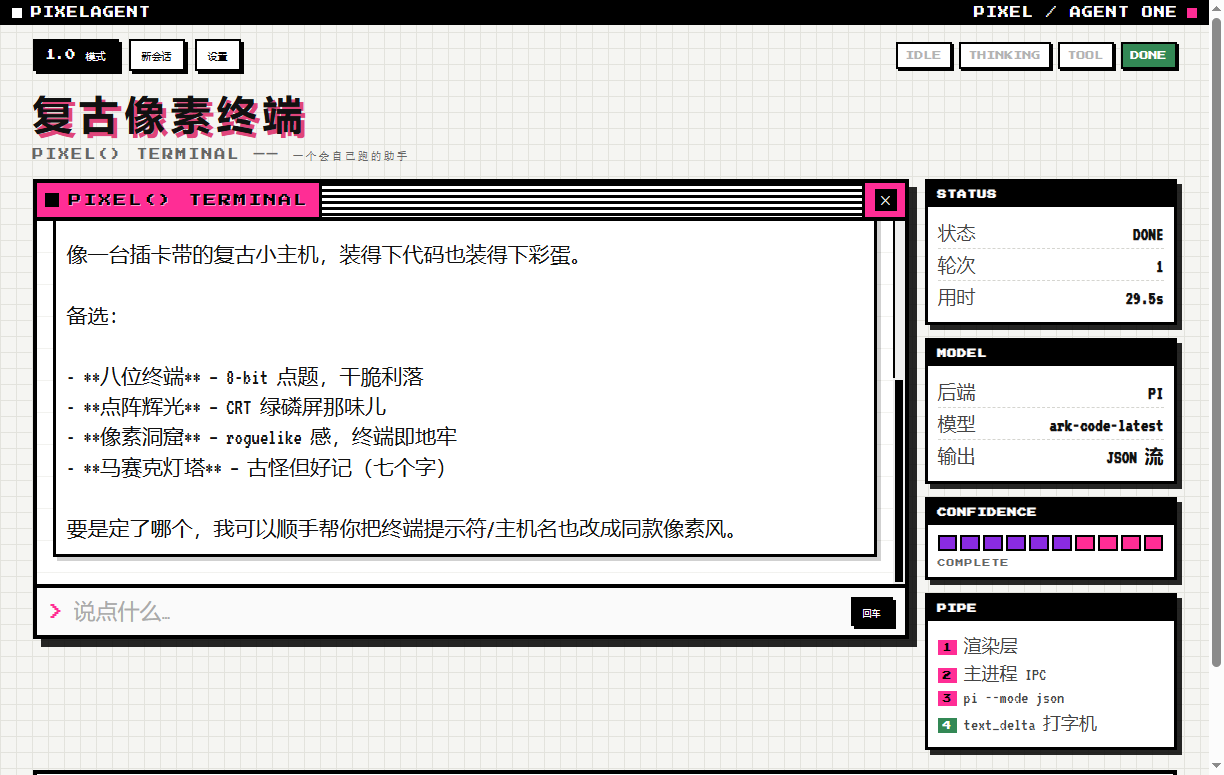
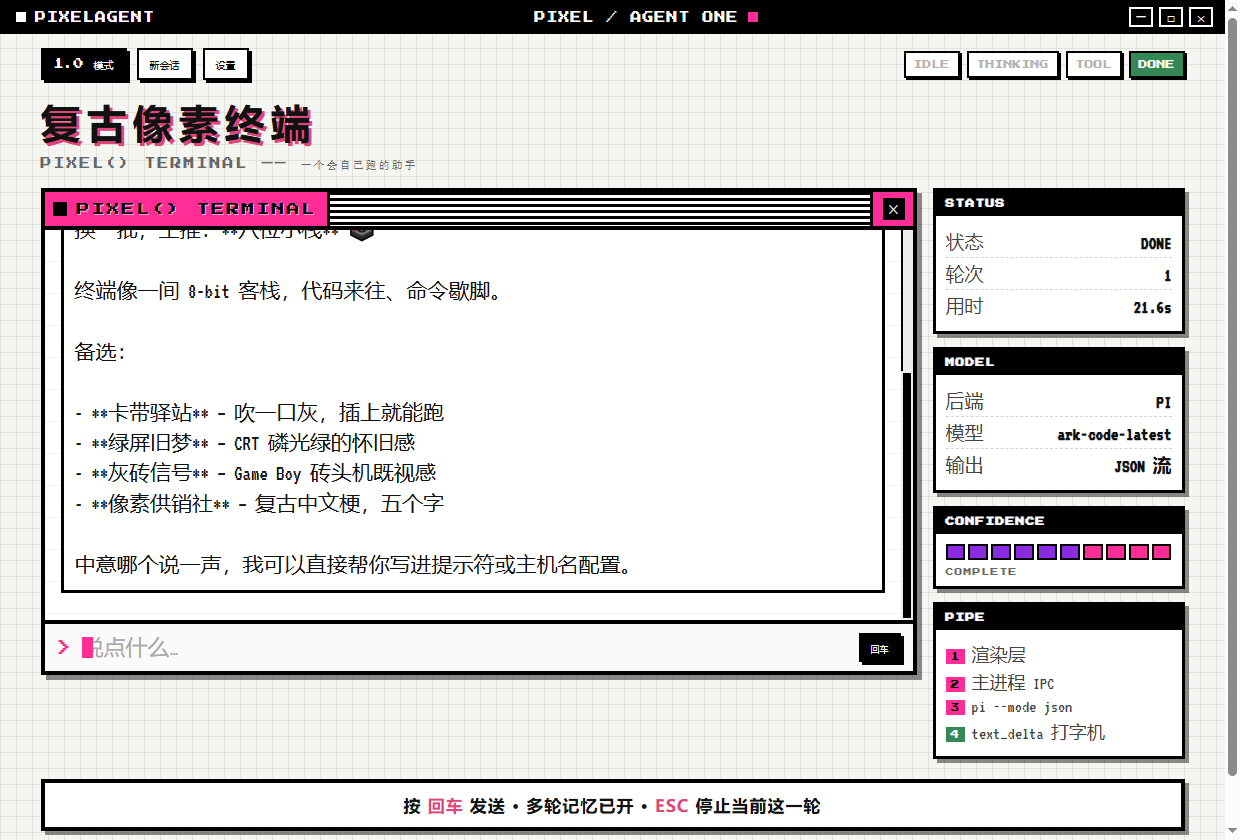
无边框窗口 + 自绘标题栏按钮（— □ ✕），重新截图验证

Changed region(s): [[0.0, 0.0, 1.0, 1.0]]

diff --git a/style.css b/style.css
@@ -34,7 +34,7 @@
   --purple: #8a2be2;    /* 强调紫 */
   --green: #338855;     /* 终端绿（成功态） */
   --gray: #666666;
-  --shadow: rgba(0, 0, 0, .85);
+  --shadow: rgba(0, 0, 0, .45);   /* 像素投影统一调淡调薄：有层次但不脏 */
 }
 
 * { box-sizing: border-box; }
@@ -63,7 +63,7 @@ body {
 .zh-pixel {
   font-family: 'Microsoft YaHei', 'SimHei', sans-serif;
   font-weight: 900;
-  text-shadow: 2px 2px 0 rgba(0, 0, 0, .25);
+  text-shadow: 1px 1px 0 rgba(0, 0, 0, .25);   /* 中文块感阴影收薄 */
   letter-spacing: 3px;
 }
 
@@ -83,6 +83,31 @@ body {
 .bul { width: 10px; height: 10px; display: inline-block; }
 .sq-white { background: #fff; margin-right: 9px; }
 .sq-pink { background: var(--pink); margin-left: 9px; }
+
+/* 窗口控制按钮（无原生窗口后，自己画小平块按钮） */
+.tb-btns { display: inline-flex; align-items: center; gap: 6px; }
+.tb-btn {
+  font-family: 'Press Start 2P', monospace;
+  font-size: 9px;
+  line-height: 1;
+  width: 24px;
+  height: 20px;
+  border: 2px solid #fff;
+  background: #000;
+  color: #fff;
+  cursor: pointer;
+  padding: 0;
+  display: inline-flex;
+  align-items: center;
+  justify-content: center;
+  border-radius: 0;
+}
+.tb-btn:hover { background: var(--pink); color: #000; border-color: var(--pink); }
+.tb-btn.tb-close:hover { background: #c00000; color: #fff; border-color: #fff; }
+/* 假标题栏只留左边一小块能拖动（按住 PIXELAGENT 字样拖动窗口），
+   其他区域照常点鼠标，不影响选字/滚轮 */
+.tb-drag { -webkit-app-region: drag; app-region: drag; padding: 4px 8px; margin-left: -4px; }
+.tb-btns { -webkit-app-region: no-drag; app-region: no-drag; }
 
 /* ================= 页面容器 ================= */
 .page {
@@ -145,9 +170,9 @@ body {
   font-weight: 900;
   font-size: 40px;
   letter-spacing: 6px;
-  color: var(--ink);
-  /* 洋红错位阴影：参考图里中文大标题的效果 */
-  text-shadow: 4px 4px 0 var(--magenta);
+  color: #111;
+  /* 洋红错位阴影：保留参考图的中文大标题效果，但收窄一档不糊 */
+  text-shadow: 3px 3px 0 var(--magenta);
 }
 .hl-en {
   font-family: 'Press Start 2P', monospace;
@@ -169,7 +194,7 @@ body {
 .win {
   background: var(--paper);
   border: 4px solid #000;
-  box-shadow: 8px 8px 0 var(--shadow);   /* 右下像素投影 */
+  box-shadow: 5px 5px 0 var(--shadow);    /* 主投影收薄到 5px，不再 8px 厚 */
   display: flex;
   flex-direction: column;
   min-height: 460px;
@@ -269,7 +294,6 @@ body {
   color: #111;
   white-space: pre-wrap;
   word-break: break-word;
-  box-shadow: 4px 4px 0 rgba(0, 0, 0, .18);
   -webkit-user-select: text;
   user-select: text;
   min-height: 18px;
@@ -371,7 +395,7 @@ body {
 .panel {
   background: var(--paper);
   border: 3px solid #000;
-  box-shadow: 5px 5px 0 var(--shadow);
+  box-shadow: 4px 4px 0 var(--shadow);    /* 投影统一收薄：4px，跟主窗口一个力度 */
   padding: 10px;
 }
 .panel h4 {
@@ -430,7 +454,7 @@ body {
 .callout {
   background: var(--paper);
   border: 4px solid #000;
-  box-shadow: 6px 6px 0 var(--shadow);
+  box-shadow: 4px 4px 0 var(--shadow);    /* 投影统一收薄：4px */
   padding: 11px 14px;
   text-align: center;
   font-family: 'Microsoft YaHei', 'SimHei', sans-serif;

diff --git a/main.js b/main.js
@@ -37,7 +37,11 @@ function createWindow() {
     minHeight: 640,
     backgroundColor: '#f5f5f2',
     title: 'PixelAgent',
-    // 第一版用系统标题栏：省事、稳，页面内部自己做"假窗口"装饰
+    // 不要系统原生标题栏/菜单栏：整个窗口就是一块画布，
+    // 标题栏用页面里 HTML 做的假标题栏（win-title）代替，像素风统一。
+    frame: false,
+    autoHideMenuBar: true,
+    useContentSize: true,
     webPreferences: {
       preload: path.join(__dirname, 'preload.js'),
       contextIsolation: true,
@@ -102,6 +106,14 @@ ipcMain.handle('pi:info', () => {
     mode: 'json（换行分隔事件流）'
   };
 });
+
+// ---------- 窗口控制：最小化 / 最大化 / 关闭（无原生标题栏用） ----------
+ipcMain.handle('win:min', () => { if (win && !win.isDestroyed()) win.minimize(); });
+ipcMain.handle('win:max', () => {
+  if (!win || win.isDestroyed()) return;
+  if (win.isMaximized()) win.unmaximize(); else win.maximize();
+});
+ipcMain.handle('win:close', () => { if (win && !win.isDestroyed()) win.close(); });
 
 app.whenReady().then(() => {
   createWindow();

diff --git a/renderer.js b/renderer.js
@@ -335,6 +335,19 @@ $('btn-mode').addEventListener('click', () => {
 });
 
 /* ============================================================
+   假标题栏按钮（原生窗口关掉后，最小化/最大化/关闭自己来）
+   ============================================================ */
+$('tb-min').addEventListener('click', () => window.pixelAPI && window.pixelAPI.winMin());
+$('tb-max').addEventListener('click', () => window.pixelAPI && window.pixelAPI.winMax());
+$('tb-close').addEventListener('click', () => window.pixelAPI && window.pixelAPI.winClose());
+
+/* ESC 关弹窗已有；无原生窗口后双击标题栏也能最大化，补一条双击空隙处关弹窗 */
+$('titlebar').addEventListener('dblclick', (e) => {
+  if (e.target.closest('.tb-btn')) return;   // 点按钮不触发
+  window.pixelAPI && window.pixelAPI.winMax();
+});
+
+/* ============================================================
    演示模式：没有 pixelAPI（比如用浏览器直接打开 index.html）时
    自己模拟一段流式回复，方便看样式 / 截图。
    ============================================================ */

diff --git a/index.html b/index.html
@@ -7,10 +7,15 @@
   <link rel="stylesheet" href="style.css" />
 </head>
 <body>
-<!-- ================= 顶部黑条状态栏 ================= -->
-<header class="topbar">
-  <span class="tb-side"><i class="bul sq-white"></i>PIXELAGENT</span>
+<!-- ================= 顶部假标题栏（无原生窗口，可拖动+关小关按钮） ================= -->
+<header class="topbar" id="titlebar">
+  <span class="tb-side tb-drag"><i class="bul sq-white"></i>PIXELAGENT</span>
   <span class="tb-side">PIXEL / AGENT ONE<i class="bul sq-pink"></i></span>
+  <span class="tb-btns">
+    <button class="tb-btn" id="tb-min" title="最小化">—</button>
+    <button class="tb-btn" id="tb-max" title="最大化">□</button>
+    <button class="tb-btn tb-close" id="tb-close" title="关闭">✕</button>
+  </span>
 </header>
 
 <div class="page">

diff --git a/preload.js b/preload.js
@@ -15,6 +15,10 @@ contextBridge.exposeInMainWorld('pixelAPI', {
   newSession: () => ipcRenderer.invoke('pi:new-session'),
   // 读信息（模型/会话路径），设置面板用
   info: () => ipcRenderer.invoke('pi:info'),
+  // 窗口控制（无原生标题栏后，按钮自己发号施令）
+  winMin: () => ipcRenderer.invoke('win:min'),
+  winMax: () => ipcRenderer.invoke('win:max'),
+  winClose: () => ipcRenderer.invoke('win:close'),
   // 收主进程推过来的所有消息
   onMsg: (cb) => {
     ipcRenderer.on('pi:msg', (_e, data) => cb(data));
